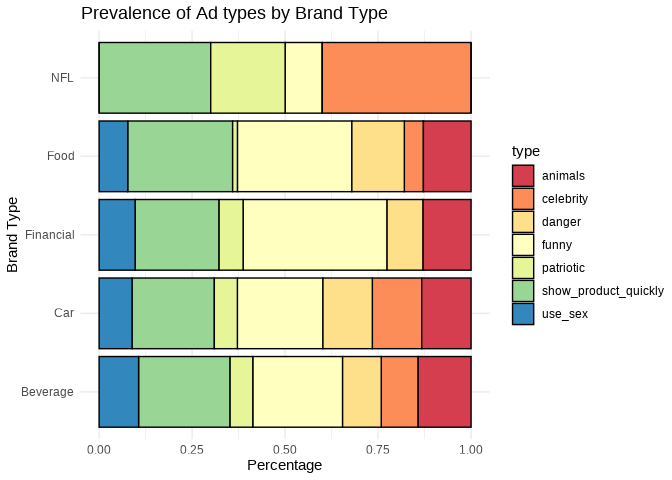
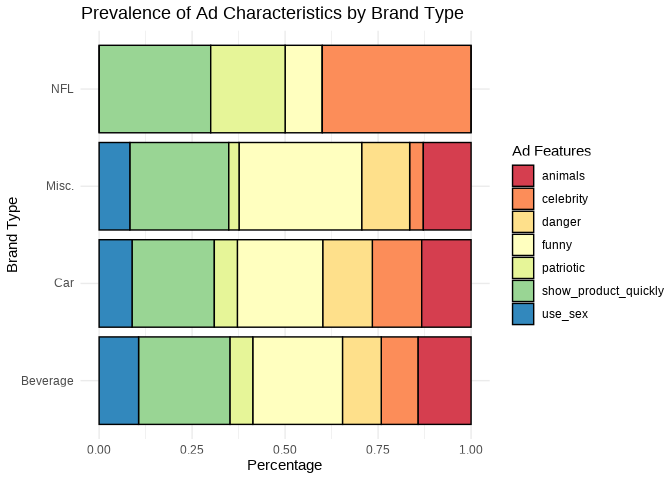
Kate Q1 Approach

diff --git a/README.md b/README.md
@@ -115,11 +115,11 @@ The full data dictionary can be seen below:
 We first explore the themes featured in Super Bowl ads and how they have
 changed over the last 21 years by leveraging the following variables:
 `funny`, `show_product_quickly`, `patriotic`, `celebrity`, `danger`,
-`animals`,`use_sex`, and `year`. Each variable (except for year) answers
-whether or not that specific characteristic was featured in the ad. For
-example, if an ad contains a celebrity appearance then there is a “yes”
-inputted for that brands’s commercial. Furthermore, a commercial can
-feature multiple characteristics such as being funny while using
+`animals`, `use_sex`, and `year`. Each variable (except for year)
+answers whether or not that specific characteristic was featured in the
+ad. For example, if an ad contains a celebrity appearance then there is
+a “yes” inputted for that brands’s commercial. Furthermore, a commercial
+can feature multiple characteristics such as being funny while using
 patriotism to raise awareness for said product. We are interested in
 seeing the changes in commercial advertising over time and predict that
 patriotic themes have become less prominent over time.
@@ -129,43 +129,46 @@ patriotic themes have become less prominent over time.
 \[(1-2 paragraphs) Describe what types of plots you are going to make to
 address your question. For each plot, provide a clear explanation as to
 why this plot (e.g. boxplot, barplot, histogram, etc.) is best for
-providing the information you are asking about. The two plots should be
+providing the information you are asking about.The two plots should be
 of different types, and at least one of the two plots needs to use
 either color mapping or facets.\]
 
-Graph 1: Originally, for our first graph, we planned to line chart to
-view the prevalence of certain ad types over time. However, because of
-the number of ad categories and the large time frame, it was difficult
-to discern the trends in popularity for each ad type.
+Our first question was how content trends change over time. We asked
+this question in an attempt to understand how companies have changed
+their approach to advertising. Further, we hoped to identify which
+characteristics of advertisements were popular amongst certain brand
+categories.
 
-We instead decided that a moving We instead decided that a lollipop plot
-of the same data was easier to interpret and more aesthetically
-appealing. In order to display the brands in a neat manner, we put them
-on the y-axis and the proportions on the x. The lollipop plot is
-effective in this case, as it clearly demonstrates which brands received
-a higher relative number of likes. This metric is important, as it
-gauges how audiences react to a video, giving us some idea of how well
-each of the brands is received by their respective audiences. In
-addition, this plot has a fairly reasonable data-to-ink ratio and the
-use of lines, as opposed to bars, creates a less crowded appearance.
+Graph 1: Our first graph sought to explore the prevalence of ad
+characteristics over time. Originally, we hoped to show this data in a
+line graph with year on the x axis, count of ad characteristics on the y
+axis, and lines colored by ad characteristic. However, due to the number
+of ad categories it was difficult to discern the trends in popularity
+for each ad type. We then decided to use an animated bar chart to show
+the changing prevalence of certain ad features over time. This animated
+plot was useful to see how certain ad characteristics changed from year
+to year. However, it was difficult to compare trends over the entire
+time frame (i.e. trends in 2000 super bowl commercials versus 2020
+superbowl commercials). For this reason we have included an additional
+plot which captures 5 frames of the animated plot. We used the Spectral
+palette because it clearly distinguished the 7 characteristics by color.
 
-Graph 2: For our second graph, we created a scatterplot using
-`geom_point`. While we personally believe that looking at the proportion
-of likes relative to total interactions is the best way to gauge the
-audience’s opinion on each brand’s commercials, we thought it would also
-be important to look at other measures of popularity, in this case,
-`avg_total_views` and `avg_total_comments`. These were both variables we
-generated by calculating the average total views and comments each brand
-received per commercial. We put `avg_total_views` on the x-axis and
-`avg_total_comments` on the y-axis, coloring by brand. Due to the large
-discrepancy in values of view and comment count, we decided to change
-the scales of the x-axis and y-axis to a Log10 scale. This made it much
-easier to intrepret the graph and spaced out the points in a way that
-made them easy to see. We believe this visualization is appropriate for
-our analysis, as it clearly demonstrates the which brands receive the
-most amount of views and comments per commercial. This graph is a nice
-compliment to our first visualization and will be helpful to see how
-each brand is represented in each scenario.
+Graph 2: For our second graph, we created a new variable brand\_type,
+which grouped the 10 brands into 4 categories: Beverage, Car, NFL, and
+misc. All drink brands were placed in the “Beverage” category, car
+brands were placed in the “Car” category, Doritos and E-Trade were
+placed in the miscellaneous category, and NFL was placed in its own
+category. We were interested to see how the NFL advertised itself to
+superbowl viewers at its own event. Then we grouped by `brand_type` and
+used the summarise function to create a new variable representing the
+count of each ad characteristic. We used pivot\_longer to group all of
+the ad characteristics under a new variable called “ad\_type”. The count
+of each ad characteristic was represented in the value variable.
+Finally, for each `brand_type` we calculated the perecentage of each ad
+characteristics among ads for that brand\_type. These percentages were
+represented in the stacked bar chart. This plot clearly identified which
+characteristics of advertisements were popular amongst certain brand
+categories.
 
 ### Analysis
 
@@ -182,19 +185,7 @@ q1_p1_data <- superbowl_data %>%
             animals = sum(animals),
             use_sex = sum(use_sex)) %>%
   pivot_longer(cols = c(funny, show_product_quickly, patriotic, celebrity, danger, animals, use_sex), names_to = "type")
-
-g <- ggplot(q1_p1_data, aes(type, value, fill  = type)) +
-  geom_col() + labs(title = 'Prevalence of Ad Types: {closest_state}', x = 'Ad Type', y= " Ad Count") +
-  theme(axis.text.x=element_text(color = "black", size=10, angle=30, vjust=.8, hjust=0.8), legend.position = "none") +
-  transition_states(year, transition_length = 0 , state_length = 2 ) + 
-  scale_fill_brewer(palette = "Spectral") 
-animate(g, 
-        nframes = 100, # 200 frames
-        fps = 5,
-        end_pause = 15)
 ```
-
-![](README_files/figure-gfm/q1_p1_wrangling-1.gif)<!-- -->
 
 ``` r
 q1_p2_data2 <- superbowl_data%>%
@@ -205,8 +196,8 @@ q1_p2_data2 <- superbowl_data%>%
                                brand == "Coca-Cola" ~ "Beverage",
                                brand == "Budweiser" ~ "Beverage", 
                                brand == "Pepsi" ~ "Beverage", 
-                               brand == "Doritos" ~ "Food", 
-                               brand == "E-Trade" ~ "Financial", 
+                               brand == "Doritos" ~ "Misc.", 
+                               brand == "E-Trade" ~ "Misc.", 
                                brand == "NFL" ~ "NFL", 
                                TRUE ~ "Miscellaneous"))
 q1_p2_data2 <- q1_p2_data2 %>%
@@ -222,7 +213,7 @@ q1_p2_data2 <- q1_p2_data2 %>%
 q1_p2_data2
 ```
 
-    ## # A tibble: 35 × 3
+    ## # A tibble: 28 × 3
     ##    brand_type type                 value
     ##    <chr>      <chr>                <int>
     ##  1 Beverage   funny                  107
@@ -235,10 +226,10 @@ q1_p2_data2
     ##  8 Car        funny                   26
     ##  9 Car        show_product_quickly    25
     ## 10 Car        patriotic                7
-    ## # … with 25 more rows
+    ## # … with 18 more rows
 
 ``` r
-check_it <- q1_p2_data2 %>%
+q1_p2_data2 <- q1_p2_data2 %>%
   group_by(brand_type)%>% 
   mutate(per=value/sum(value)) %>%
   mutate(labels = paste(per, "%"))
@@ -257,11 +248,34 @@ animate(g,
 
 ![](README_files/figure-gfm/unnamed-chunk-2-1.gif)<!-- -->
 
+``` r
+ggplot(q1_p1_data%>% filter(year %in% c(2000, 2005, 2010,2015, 2020)), aes(type, value, fill  = type)) +
+  geom_col() + labs(title = 'Prevalence of Superbowl Ad Characteristics Over Time', x = 'Ad Type', y= " Ad Count", fill = "Ad Charrcteristic") + theme_minimal() + theme( axis.text.x=element_blank(), axis.title.x = element_blank(), legend.position = c(0.8, 0.2), legend.key.size = unit(.5, 'cm'),
+        legend.key.height = unit(.5, 'cm'), #change legend key height
+        legend.key.width = unit(.5, 'cm'), legend.background = element_rect(size = 0.5, colour = 1), axis.title.y = element_text(angle = 0, vjust = 0.5)) + scale_fill_brewer(palette = "Spectral") + facet_wrap(~year, ncol =3) + scale_y_continuous(breaks = seq(0, 12, by = 2))
+```
+
+![](README_files/figure-gfm/unnamed-chunk-3-1.png)<!-- -->
+
+``` r
+ggplot(q1_p1_data, aes(year, value, color  = type))+
+  geom_smooth(se = F, aes(fill=type), show.legend = FALSE)+ labs(title = 'Prevalence of Superbowl Ad Characteristics over Time', x = 'Year', Y=" Ad Count", fill = "Ad Characteristics") + theme_minimal() + labs(fill = "Ad Feature") + scale_fill_brewer(palette = "Spectral") + 
+  scale_y_continuous(breaks = seq(0, 12, by = 2))
+```
+
+    ## `geom_smooth()` using method = 'loess' and formula 'y ~ x'
+
+![](README_files/figure-gfm/unnamed-chunk-3-2.png)<!-- -->
+
 #### Visualization two
 
 ``` r
-ggplot(check_it, aes(fill=type, y=per, x=brand_type)) + 
-    geom_bar(position="stack", stat="identity", color = "black") + coord_flip() + scale_fill_brewer(palette = "Spectral") + theme_minimal()+ labs(title = "Prevalence of Ad types by Brand Type", x= "Brand Type", y = "Percentage")
+ggplot(q1_p2_data2, aes(fill=type, y=per, x=brand_type)) + 
+    geom_bar(position="stack", stat="identity", 
+             color = "black") + coord_flip() + 
+  scale_fill_brewer(palette = "Spectral") + theme_minimal()+ 
+  labs(title = "Prevalence of Ad Characteristics by Brand Type", x= "Brand Type",
+       y = "Percentage", fill = "Ad Features")
 ```
 
 ![](README_files/figure-gfm/viz1-1.png)<!-- -->
